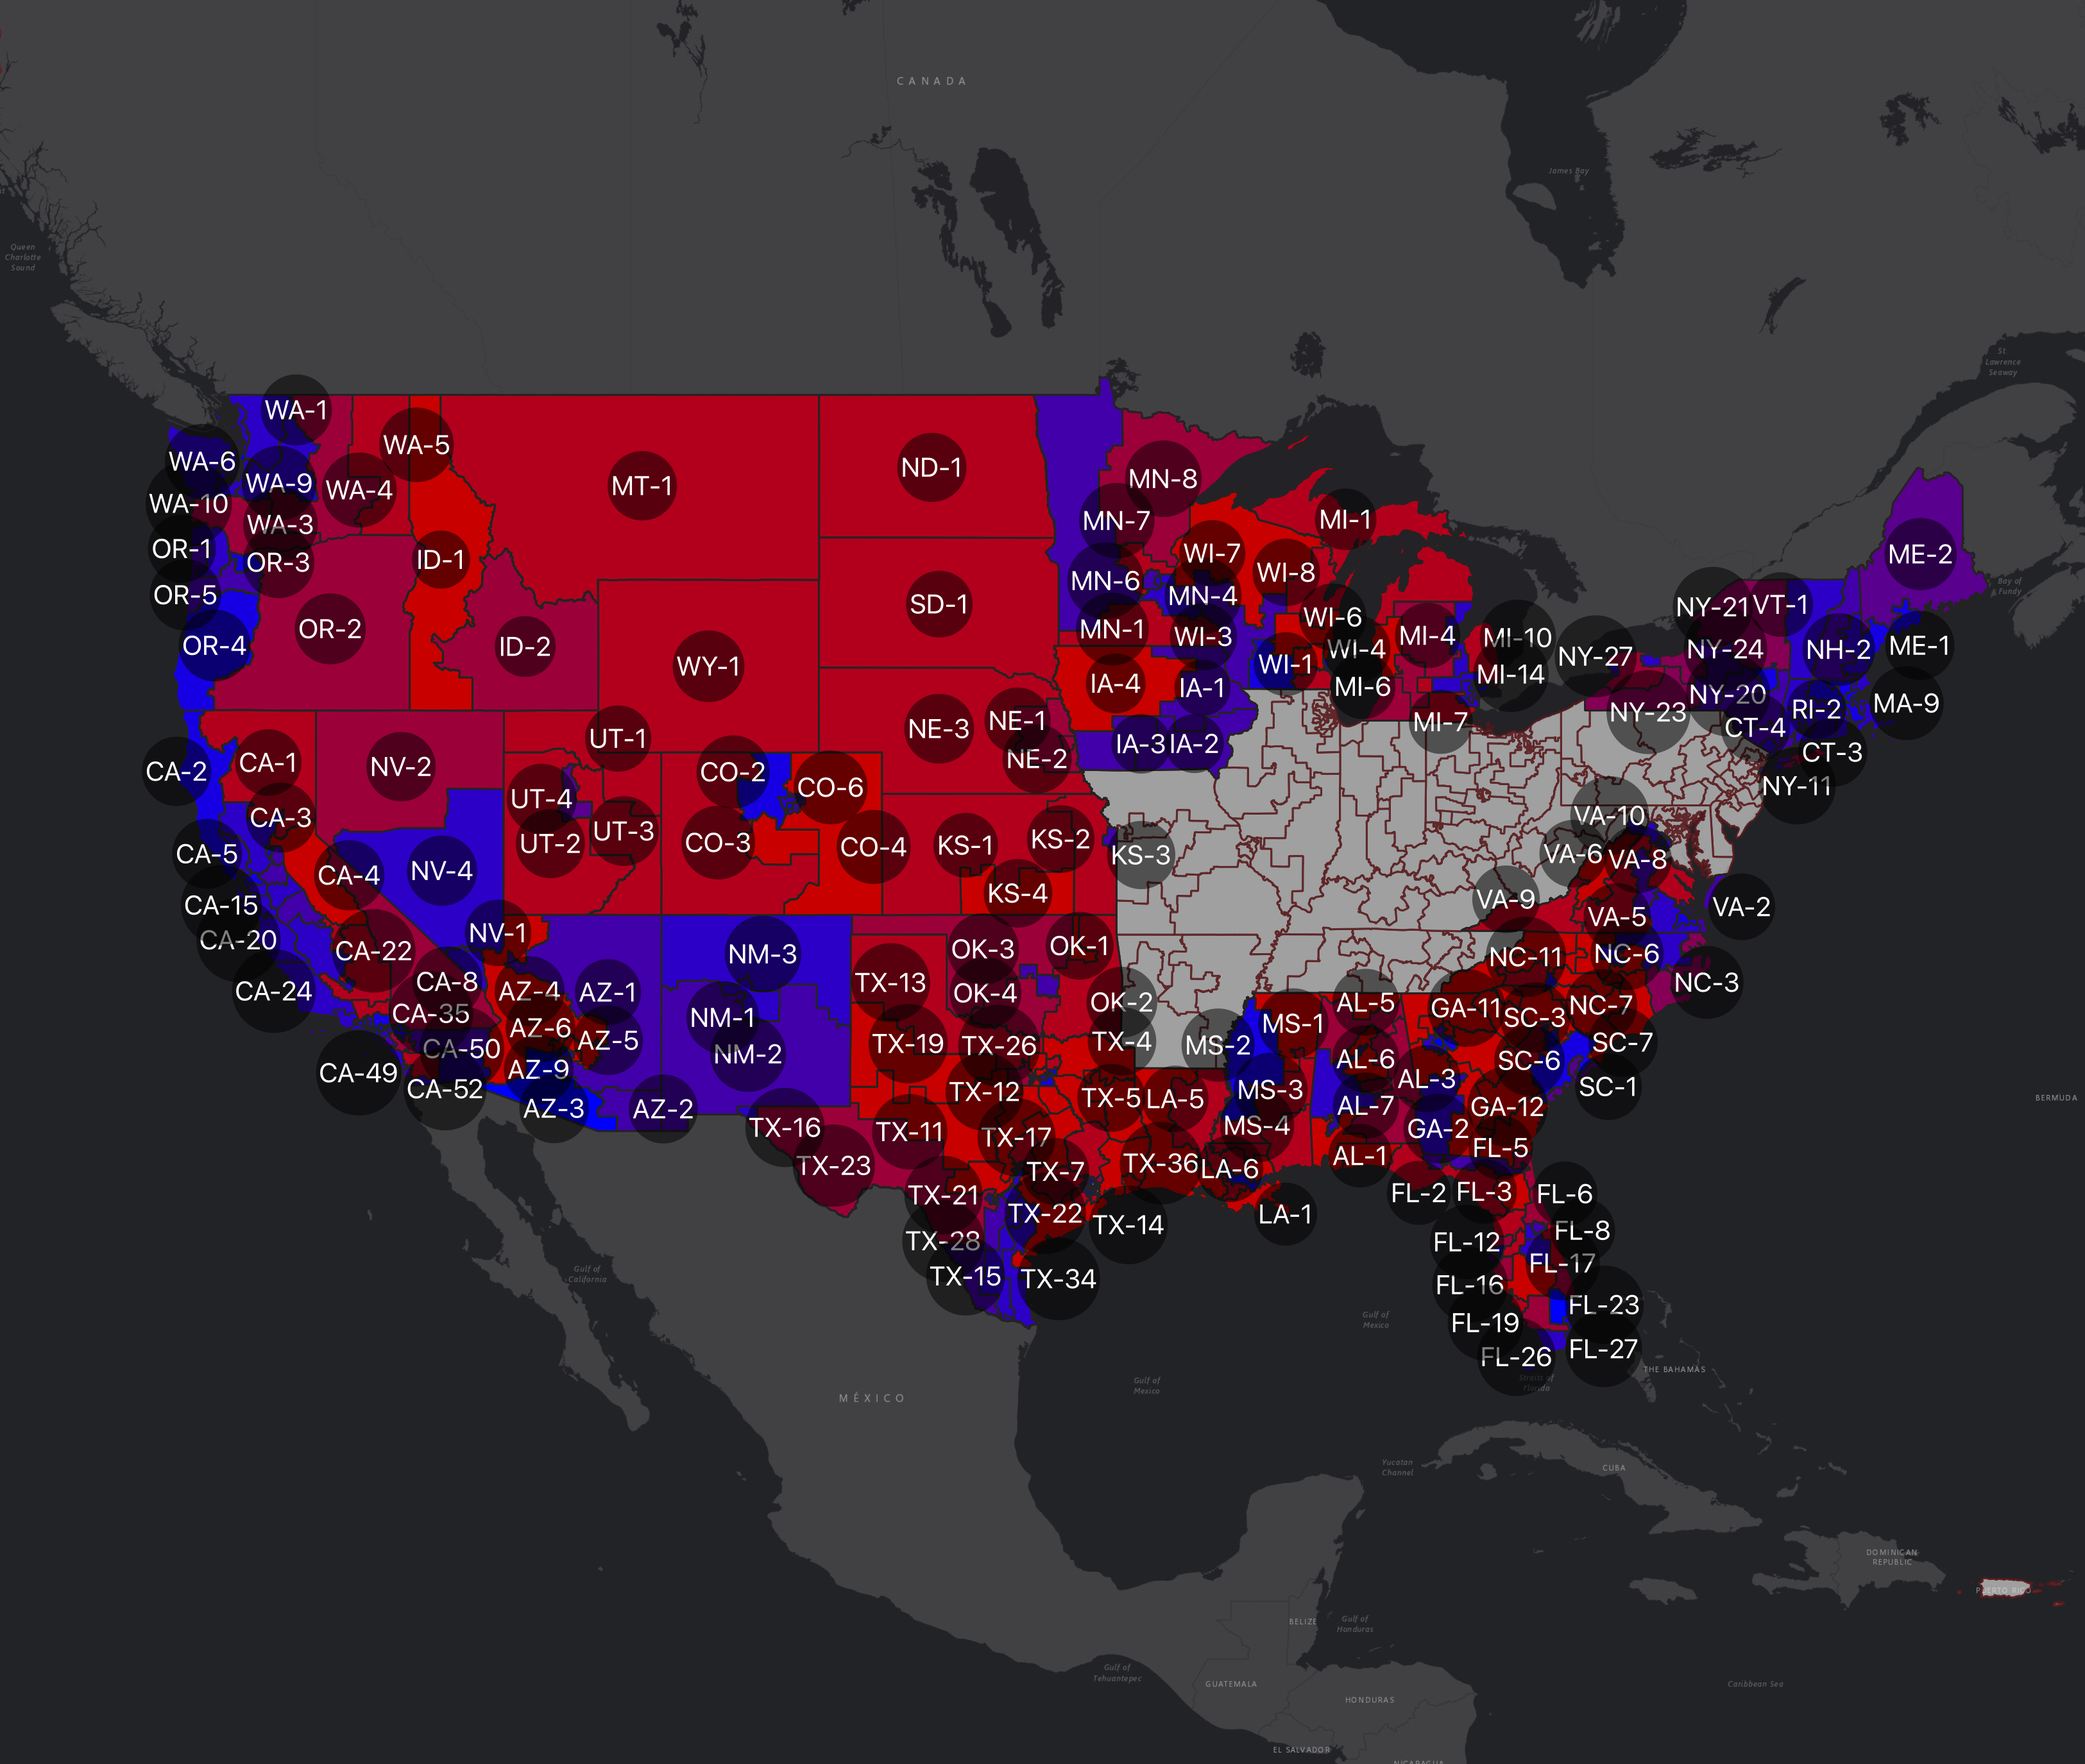
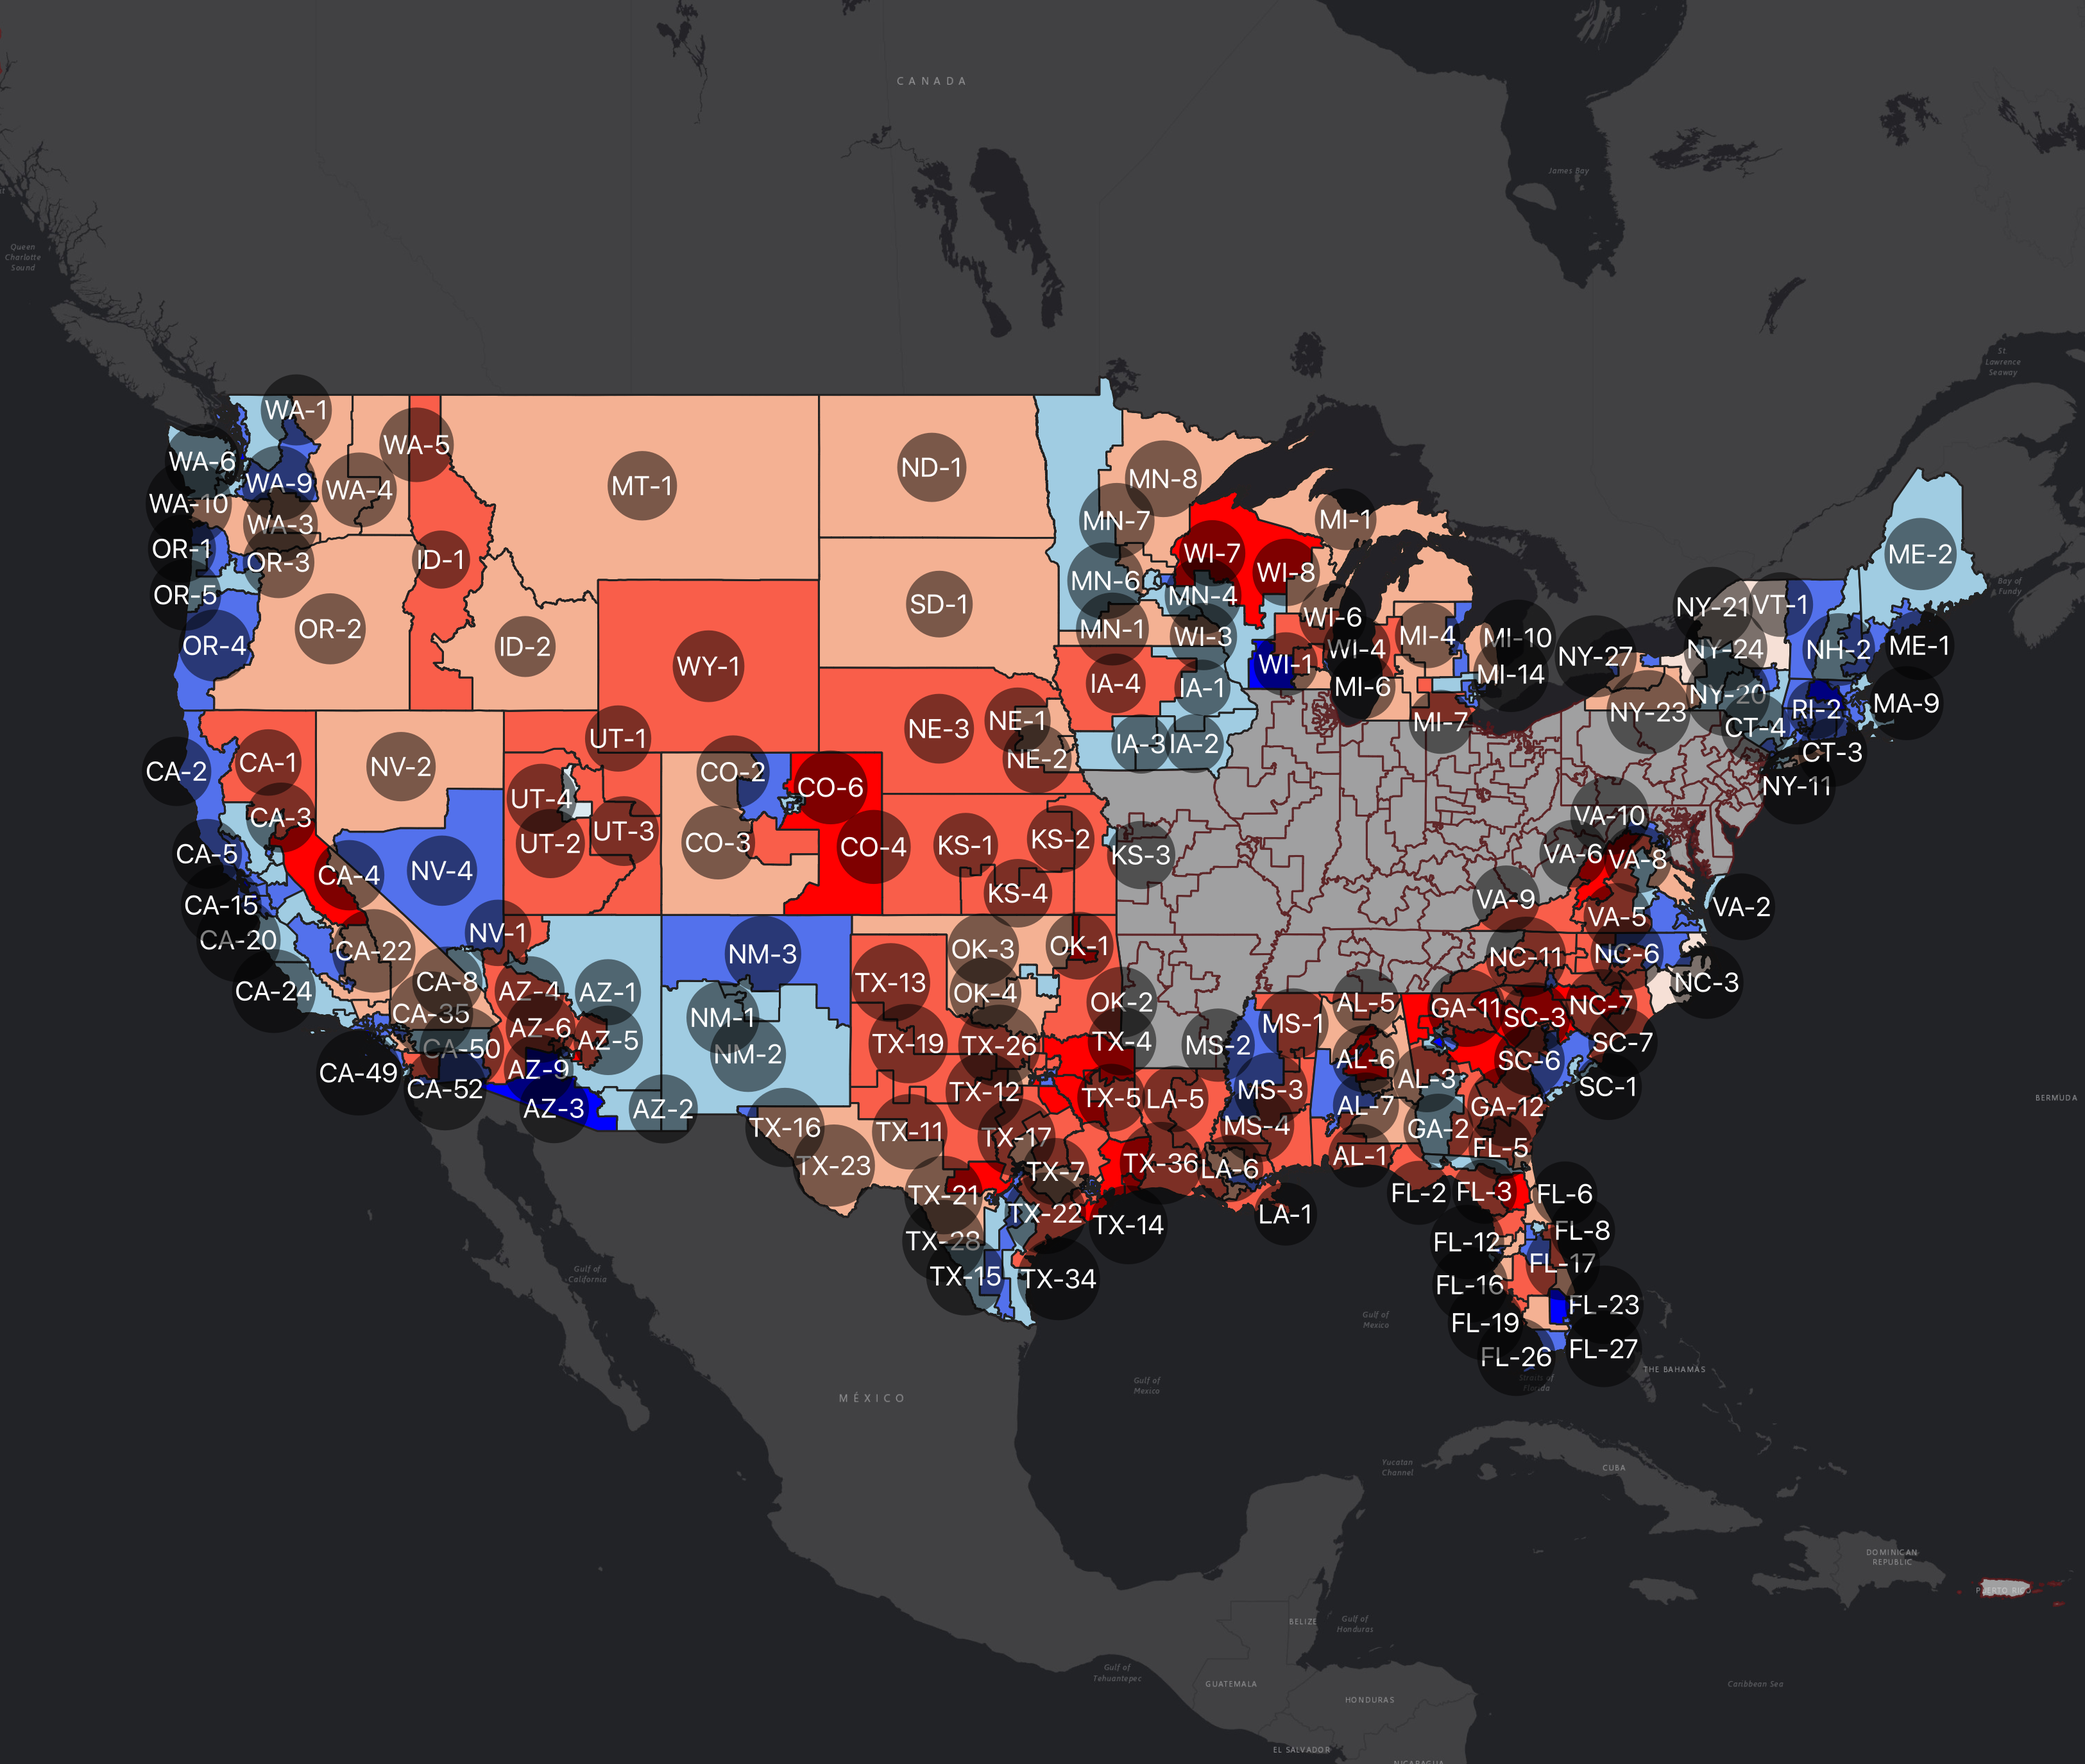
changed map coloring

Changed region(s): [[0.0622, 0.2164, 0.8391, 0.7727], [0.7458, 0.2473, 0.9634, 0.4327]]

diff --git a/README.md b/README.md
@@ -51,6 +51,7 @@ Congress, United States (2018)](DWN-D1-MappedDistricts-current.png)
   - Add 2016-2017 Congressional district layer to GIS proj
   - update file table
   - build %change over election years plot script
+  - improve coloring schemes
 
 ##### Data
 
